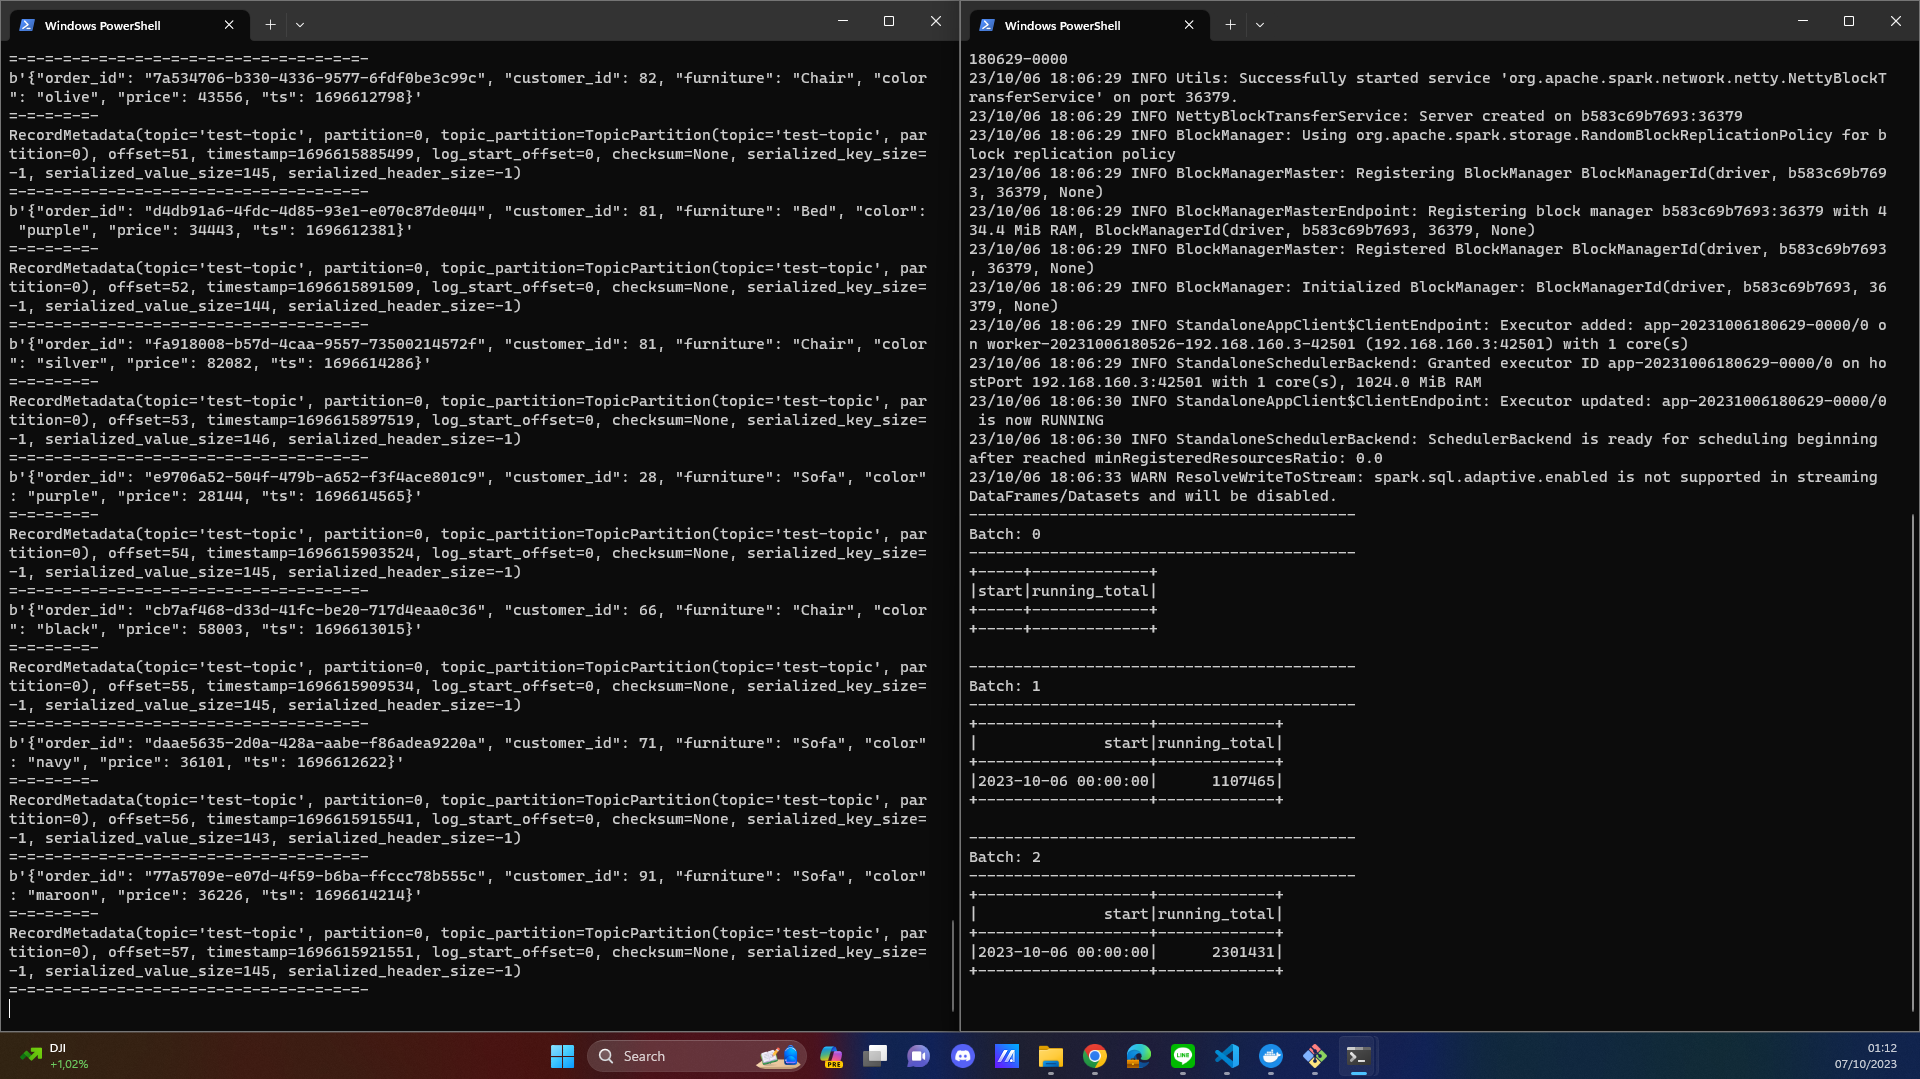
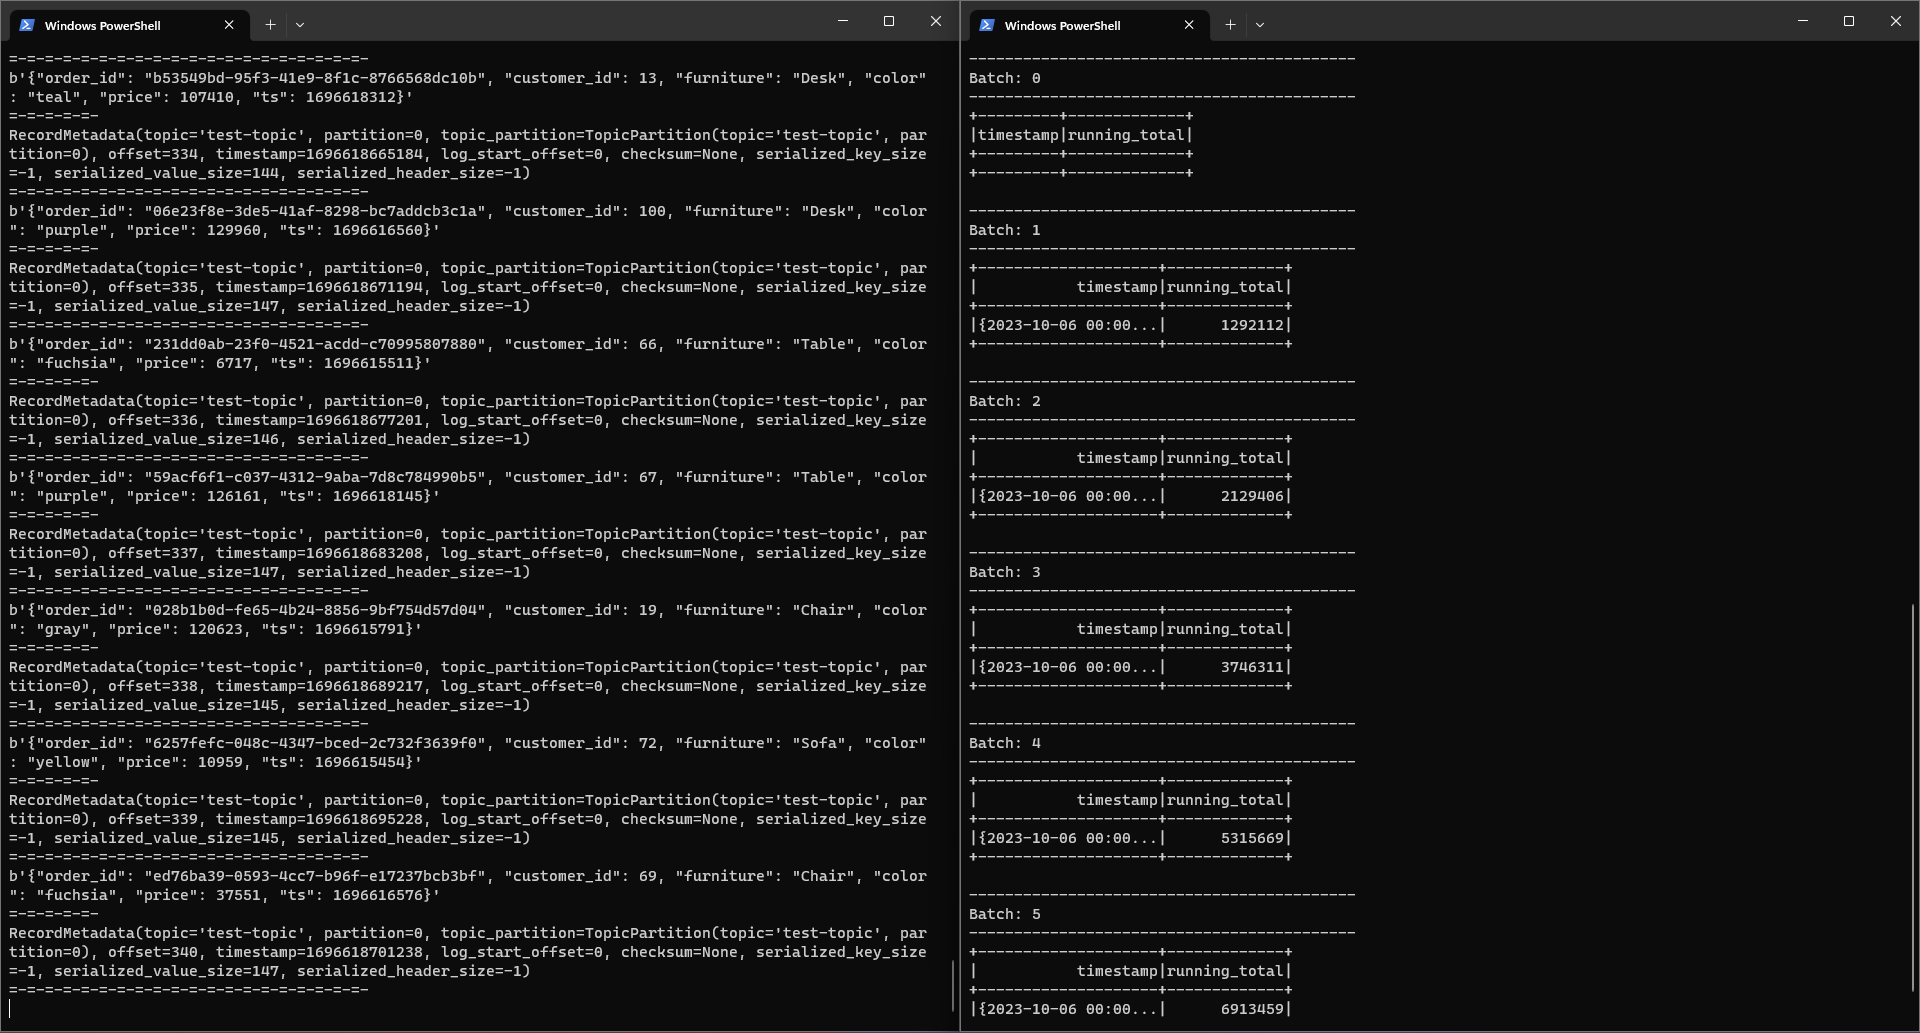
update event consumer

Changed region(s): [[0.0, 0.0, 1.0, 1.0]]

diff --git a/scripts/event-consumer.py b/scripts/event-consumer.py
@@ -60,10 +60,10 @@ windowed_df = (
 )
 
 def process_batch(batch_df, batch_id):
-    # Calculate the running total for this batch
+    # Select timestamp and running_total column
     running_total = batch_df.selectExpr('timestamp', 'running_total')
     
-    # Collect the data into a list
+    # Collect the running total data of each batch into a list
     data_list = running_total.collect()
     
     return data_list
